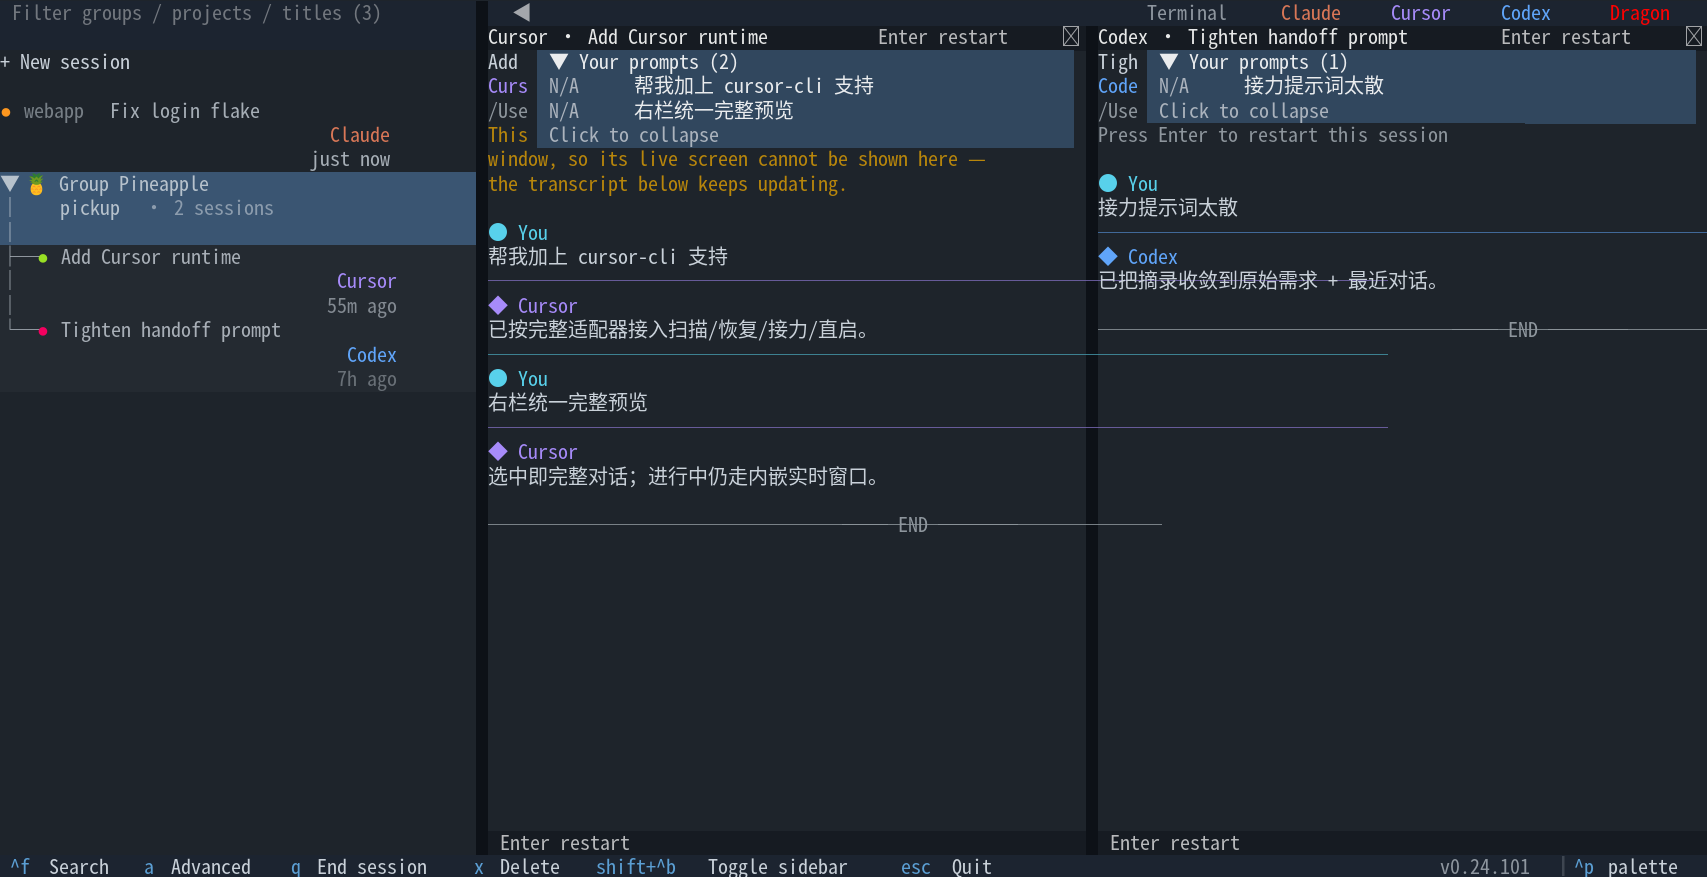
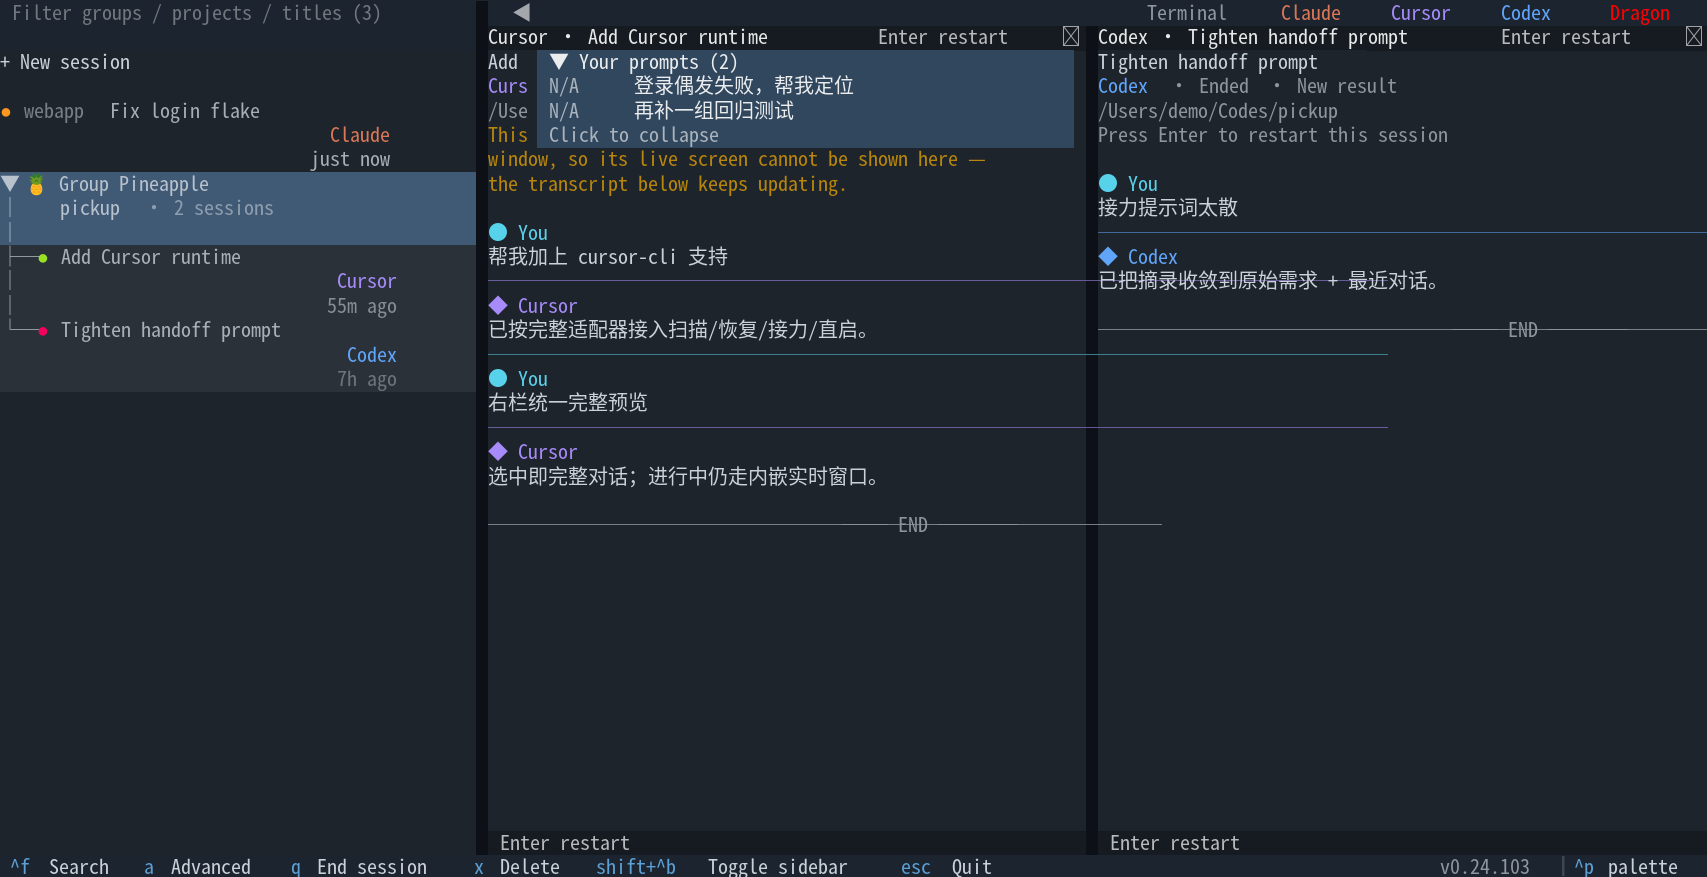
release: v0.24.103 侧边栏斑马纹略加深
条纹从 $foreground 4% 提到 8%，块间对比更清楚，仍半透明不压过选中高亮。

Changed region(s): [[0.652, 0.0308, 0.9936, 0.1539], [0.3726, 0.0616, 0.5278, 0.1539]]

diff --git a/src/pickup/ui/session_list.py b/src/pickup/ui/session_list.py
@@ -176,7 +176,7 @@ class SessionCard(Widget):
         color: $foreground 80%;
         &.-stripe {
             /* 半透明叠在 ListItem 底上，不跟选中/分屏高亮抢 background。 */
-            background: $foreground 4%;
+            background: $foreground 8%;
         }
     }
     /* 第三行时间按新鲜度分档着色：半小时内与标题同亮（=卡片基础色，着重显示），
@@ -429,7 +429,7 @@ class SessionGroupCard(Widget):
         pointer: pointer;
         color: $foreground 88%;
         &.-stripe {
-            background: $foreground 4%;
+            background: $foreground 8%;
         }
     }
     """

diff --git a/src/pickup/__init__.py b/src/pickup/__init__.py
@@ -17,7 +17,7 @@ import sys as sys
 # 回归用例全挂正是这么来的。包顶层是唯一「任何用法都必经」的位置。
 os.environ.setdefault("TEXTUAL_DISABLE_KITTY_KEY", "1")
 
-__version__ = "0.24.102"
+__version__ = "0.24.103"
 
 _MODULE_EXPORTS = {
     "embed", "keepalive", "titles", "updater", "split_layout", "observe", "theme", "search",

diff --git a/docs/TERMINAL_UI_KNOWLEDGE_BASE.md b/docs/TERMINAL_UI_KNOWLEDGE_BASE.md
@@ -188,7 +188,7 @@ stateDiagram-v2
 - 展开后成员以贴侧栏左缘的半角框线 `├─ `/`└─ `（续行同列 `│  `，总宽 3 列、无前导空格）连接，并从顶层列表摘除，禁止同一会话同时出现两份。必须整套半角框线——混用全角 `｜`/`－` 会和 `├` 错列，三行卡片之间竖线断开。树线用 `$foreground 80%`（与卡片基础色同亮），**不用**终端 `dim`。组内子项首行只显示「可选圆点 + 标题」，**不再重复项目名**（项目已写在组卡第二行）。组卡上按 `Space` 或点击三角可收起/展开；搜索组名时即使原先收起，也临时展示全部成员。
 - 分屏高亮只落在**当前会话组标题**和**当前激活的子会话**上；其余组员不再整块铺底。光标落到这两类高亮项上时，仍要使用更重一档的合成色。**光标停在组卡本身时只高亮组标题，不标任何子会话**（点组卡是在看整组，不是选中某一个成员）。
 - `p` 切换置顶：独立会话可单独置顶，会话组只能整体置顶，组内单个成员不能脱离组单独置顶。置顶块排在普通会话组之前，多个置顶项按最近置顶时间排序；组卡与子项始终是不可拆散的一块。**置顶块与未置顶块都非空时**，中间插入一行 `$primary` 冷蓝横线（`PinSeparatorCard`，高 1、无文案、`disabled`，键盘 ↑↓ 跳过；无置顶或筛完只剩置顶时不画）。置顶已有 `↑`，分隔线不写「其他」之类标签，避免把下方会话说成次要。
-- 侧边栏斑马纹按**块**交替，不是按卡片：独立会话一块，会话组（组卡 + 全部成员）一块，块内同色。`＋ 新建` 与置顶分隔线不参与、不计入相位；分隔线之后相位重置，两区都以无条纹起头。条纹画在 `SessionCard` / `SessionGroupCard` 上（`$foreground 4%` 半透明），叠在列表底 / 选中 / 分屏底色之上。
+- 侧边栏斑马纹按**块**交替，不是按卡片：独立会话一块，会话组（组卡 + 全部成员）一块，块内同色。`＋ 新建` 与置顶分隔线不参与、不计入相位；分隔线之后相位重置，两区都以无条纹起头。条纹画在 `SessionCard` / `SessionGroupCard` 上（`$foreground 8%` 半透明），叠在列表底 / 选中 / 分屏底色之上。
 - 会话结束不会自动退出组；启动恢复只重新打开仍在运行的成员。关闭某一分屏格或永久删除成员会把它移出组，剩余不足两个成员时解散组；解散不删除任何会话。
 - `x` 落在组卡上删的是**整组**：确认弹窗写明组名和成员数（有运行中成员时另写一版文案，说明会先结束它们），确认后一次性摘掉全部成员卡，再在后台逐条结束进程 + 抹磁盘。**逐条容错**——某个运行时抹历史失败只把那一条捞回列表并提示失败原因，同组其他会话照常删除；成员全删完后组自然解散。组卡本身不对应任何一条会话，所以这里没有"只删选中那一条"的语义可退。
 
@@ -309,7 +309,7 @@ stateDiagram-v2
 
 - **AI 易错点**【禁止】恢复旧的全屏预览或纯列表第二套界面。非进行中会话在右栏直接展示完整对话，已托管会话在右栏挂接内嵌实时终端；「运行中(其他窗口)」走完整对话那一路（它不在任何 tmux 里，抓不到画面）。Space 全屏预览已经退役。原因：双入口会使按键、滚动、选择和展示语义重新分叉。
 - **AI 易错点**【侧边栏末行间隔与关注圆点】搜索框、新建会话项和未来新增的左栏控件，最后一行必须是控件自身高度内的间隔空行；搜索框高 2、新建项高 2。会话卡固定高 3，三行正文（首行「圆点 项目 标题」，无圆点时标题顶到最左、不留占位空格 / 运行时靠右 / 时间靠右），不再另加末行空行；禁止恢复整行绿色标题。禁止用 `margin`、兄弟空隙或 `ListItem` padding 做分隔，因为点击空隙不会命中本项，选中高亮也不完整。
-- **AI 易错点**【斑马纹是块级、画在卡片层、必须半透明】相位按块交替：独立会话一块，会话组（组卡 + 全部成员）一块；`＋ 新建` 与置顶分隔线不参与；分隔线之后重置，避免置顶/展开收起把下方整列相位翻转。类标在 `SessionCard` / `SessionGroupCard` 上，背景用 `$foreground 4%`——Textual 子类 `DEFAULT_CSS` 的 tie-breaker 高于基类，写到 `ListItem.-stripe` 会压过 `ListView` 自带的 `.-highlight`，把选中底色吃掉。失焦选中色 `block-cursor-blurred-background` 必须够不透明（约 `CC`），否则 4% 条纹会把它压平，焦点在右栏时分不清哪行是选中。全量重建与原地更新都要 `_apply_stripes()`。回归：`SidebarStripeTests`。
+- **AI 易错点**【斑马纹是块级、画在卡片层、必须半透明】相位按块交替：独立会话一块，会话组（组卡 + 全部成员）一块；`＋ 新建` 与置顶分隔线不参与；分隔线之后重置，避免置顶/展开收起把下方整列相位翻转。类标在 `SessionCard` / `SessionGroupCard` 上，背景用 `$foreground 8%`——Textual 子类 `DEFAULT_CSS` 的 tie-breaker 高于基类，写到 `ListItem.-stripe` 会压过 `ListView` 自带的 `.-highlight`，把选中底色吃掉。失焦选中色 `block-cursor-blurred-background` 必须够不透明（约 `CC`），否则条纹会把它压平，焦点在右栏时分不清哪行是选中。全量重建与原地更新都要 `_apply_stripes()`。回归：`SidebarStripeTests`。
 - **AI 易错点**【时间行是四档亮度，不是二值 dim】第三行时间按「多久以前」分四档（半小时 / 三小时 / 一天为界），最新一档与标题同色以示着重，越旧越暗。档位色必须用 `$foreground` + 透明度经组件样式解析（深浅色主题各自与背景混合），不要写死灰值、也不要退回单级 `dim`；`SessionCard._time_style()` 只取混色后的**前景**，带上背景色会把整行的选中/分屏底色盖出一块缺口。档位本身要进 `_compute_signature()`：`mtime` 不变但会话「变旧」跨档时，原地更新路径不重绘就会一直亮着。文案阈值另算：`JUST_NOW_SECONDS`（3 分钟）内显示「刚刚」并在卡片上加粗；相对时间字符串也要进签名，否则「刚刚」↔「Xm ago」与加粗不会随墙钟更新。
 - **AI 易错点**【会话组树、圆点和高亮不要重复表达】右栏形成两到四格后，侧边栏必须出现独立三行组卡，并把成员从顶层移到树形子项；组卡第一行只有三角、可选置顶标记和组名，**绝不能再画关注圆点**。右栏 ≥2 格时给当前组卡铺 `-in-split`；**光标停在组卡上时 `active_key` 必须是 `None`**（`_sync_split_marks` 看 `selected_group()`），不要把组的 `focus_key` 继续投成子会话的 `-split-active`——否则点组卡会像选中了某一个成员。光标在成员或右栏持有输入时才给该子项铺 `-split-active`。**光标停到组卡 / 激活子项上时必须比不停更重**：列表自身的 `block-cursor-background` 比组合底色弱，仍需 `:focus > ListItem.-in-split.-highlight` / `.-split-active.-highlight` 两条合成色，由 `_SIDEBAR_SPLIT_LADDER` 统一给值。组卡在 `active is None` 时仍要能贴 `-in-split`（`_apply_split_marks` 只看 keys ⊆ group，不要再要求 `active in group_keys`）。全量重建会换掉全部 `ListItem`，末尾必须重新贴标。回归：`SessionGroupSidebarTests`、`SidebarSplitHighlightTests.test_selecting_group_card_clears_member_split_active`。
 - **AI 易错点**【命中表可能给出已脱离 DOM 的控件】合成器的命中表按帧更新，全量重建列表 / 换格的中间帧里 `get_widget_and_offset_at()` 会返回 `parent is None` 的控件，Textual 8.2.8 的鼠标按下 / 拖拽分支对它取 `parent.region` 就是未捕获 `AttributeError`，整个 TUI 当场退出。`MainScreen` 已覆写该方法把这种命中当成没命中；**新增会走鼠标命中的屏（新 Screen / 新弹窗）若要放允许文本选择的控件，必须一并带上这道过滤**，光给控件设 `ALLOW_SELECT = False` 只挡得住「被点中的是它自己」那一种。细节与两次真机闪退记录见 [维护指南](MAINTAINER_GUIDE.md)「点击崩溃第二波」。
